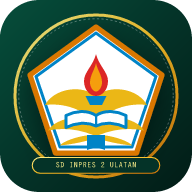
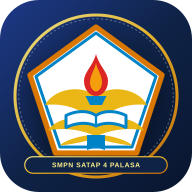
VERSI 2.2

diff --git a/index.html b/index.html
@@ -3,17 +3,17 @@
   <head>
     <meta charset="UTF-8" />
     <meta name="viewport" content="width=device-width, initial-scale=1.0" />
-    <title>ABSEN QR SMP - SMP NEGERI SATAP 4 PALASA</title>
-    <meta name="description" content="Sistem Absensi QR Code Siswa dengan Dashboard, Pemindai Kamera Interaktif, Data Siswa &amp; Kartu Digital, serta Ekspor CSV" />
-    <meta property="og:title" content="ABSEN QR SMP - SMP NEGERI SATAP 4 PALASA" />
-    <meta property="og:description" content="Sistem Absensi QR Code Siswa dengan Dashboard, Pemindai Kamera Interaktif, Data Siswa &amp; Kartu Digital, serta Ekspor CSV" />
+    <title>SMP NEGERI SATAP 4 PALASA - Presensi Digital QR Code</title>
+    <meta name="description" content="Sistem Absensi QR Code Siswa SMP Negeri Satap 4 Palasa dengan Dashboard Rekap, Pemindai Kamera Interaktif, Jadwal Jam Mapel, dan Kartu Pelajar Digital" />
+    <meta property="og:title" content="SMP NEGERI SATAP 4 PALASA - Presensi Digital QR Code" />
+    <meta property="og:description" content="Sistem Absensi QR Code Siswa SMP Negeri Satap 4 Palasa dengan Dashboard Rekap, Pemindai Kamera Interaktif, Jadwal Jam Mapel, dan Kartu Pelajar Digital" />
 
     <!-- PWA & Mobile Configuration -->
     <meta name="theme-color" content="#0f2347" />
     <meta name="mobile-web-app-capable" content="yes" />
     <meta name="apple-mobile-web-app-capable" content="yes" />
     <meta name="apple-mobile-web-app-status-bar-style" content="black-translucent" />
-    <meta name="apple-mobile-web-app-title" content="Absen SMP" />
+    <meta name="apple-mobile-web-app-title" content="SMPN 4 PALASA" />
     <link rel="manifest" href="/manifest.webmanifest" />
     <link rel="apple-touch-icon" href="/apple-touch-icon.png" />
     <link rel="icon" type="image/png" sizes="64x64" href="/favicon.png" />

diff --git a/src/App.tsx b/src/App.tsx
@@ -359,15 +359,8 @@ export default function App() {
   const [selectedClassForScanner, setSelectedClassForScanner] = useState<string>('Kelas 7A');
   const [scannerModeOverride, setScannerModeOverride] = useState<'harian' | 'mapel'>('harian');
 
-  // Dapodik-style Announcement Pop-up on initial enter
-  const [isAnnouncementOpen, setIsAnnouncementOpen] = useState<boolean>(() => {
-    try {
-      const acknowledgedVersion = safeGetItem('dapodik_announcement_acknowledged');
-      return acknowledgedVersion !== CURRENT_ANNOUNCEMENT_VERSION;
-    } catch {
-      return true;
-    }
-  });
+  // Dapodik-style Announcement Pop-up on manual trigger (default false so PWA Portal Home opens directly)
+  const [isAnnouncementOpen, setIsAnnouncementOpen] = useState<boolean>(false);
 
   // Dark / Light Theme Mode
   const [isDarkMode, setIsDarkMode] = useState<boolean>(() => {

diff --git a/vite.config.ts b/vite.config.ts
@@ -23,10 +23,10 @@ export default defineConfig(() => {
         manifest: {
           id: '/',
           name: 'SMP NEGERI SATAP 4 PALASA',
-          short_name: 'Absen SMP',
+          short_name: 'SMPN 4 PALASA',
           description: 'Sistem Absensi Digital QR Code Siswa SMP Negeri Satap 4 Palasa',
-          theme_color: '#043328',
-          background_color: '#043328',
+          theme_color: '#0f2347',
+          background_color: '#0f2347',
           display: 'standalone',
           orientation: 'portrait-primary',
           start_url: '/',

diff --git a/src/main.tsx b/src/main.tsx
@@ -7,10 +7,11 @@ import './index.css';
 
 // Register PWA Service Worker for offline capability & asset precaching in production
 if (typeof window !== 'undefined' && 'serviceWorker' in navigator && import.meta.env.PROD) {
-  registerSW({
+  const updateSW = registerSW({
     immediate: true,
     onNeedRefresh() {
       console.log('Konten baru tersedia, memperbarui cache PWA secara otomatis...');
+      updateSW(true);
     },
     onOfflineReady() {
       console.log('Aplikasi Presensi SMP NEGERI SATAP 4 PALASA siap digunakan dalam mode offline.');
